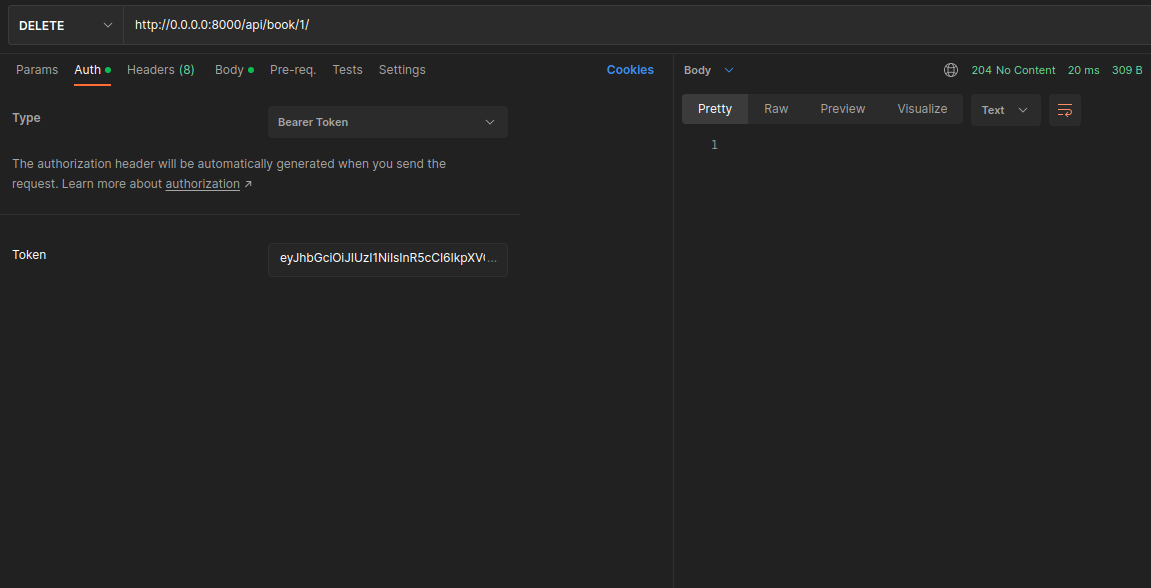
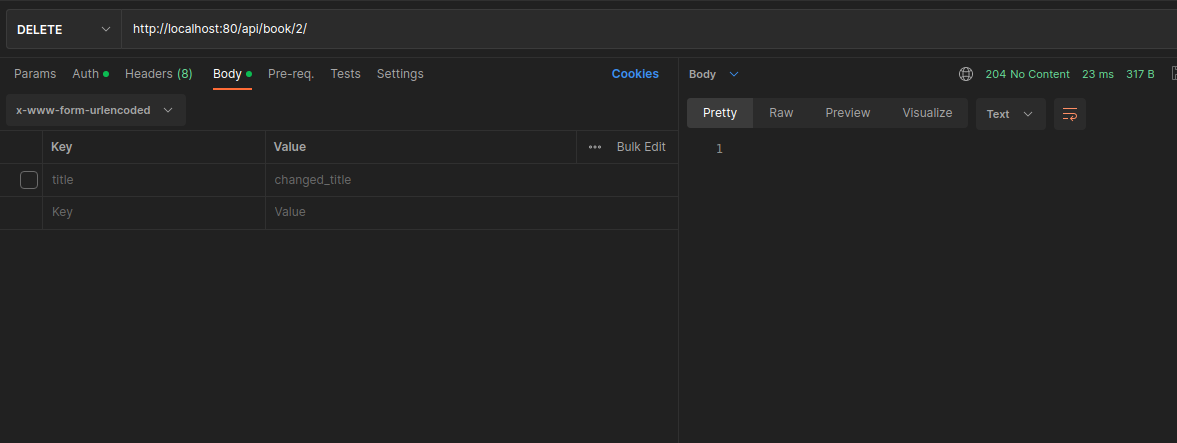
docs: add info about nginx in readme, alter graphical files

diff --git a/README.md b/README.md
@@ -3,6 +3,14 @@
 Django/ DRF API to manage books in a bookstore.<br>
 Made with gitflow pattern and conventional commits convention.
 
+Build with:
+
+* docker/ docker-compose
+* Python 3
+* Django 4
+* DRF
+* Gunicorn/ Nginx
+
 ## Explanation
 
 All GET request are public (no authentication nor authorization needed).<br>
@@ -50,7 +58,7 @@ Some book records added also - to perform basic operations at app start.
 Admin endpoint/panel also implemented for convenience (if needed). 
 <br><br>
 SWAGGER DOCS AVAILABLE AT:<br>
-http://localhost:8000/api/docs/
+http://localhost:80/api/docs/
 
 Default credentials:
 
@@ -78,35 +86,35 @@ e) user can search/list books on /book/ endpoint<br>
 
 Django Admin panel (default admin credentials can be used here)
 
-http://localhost:8000/admin
+http://localhost:80/admin
 
 
 1. CREATE new non admin user.
 
-POST to http://localhost:8000/api/user/register/
+POST to http://localhost:80/api/user/register/
 
 ```
 POST /api/user/register/ HTTP/1.1
-Host: localhost:8000
+Host: localhost:80
 Content-Type: application/x-www-form-urlencoded
 
-email=test@example.com&password=00test00&name=test_name
+email=test@example.com&password=password&name=test_name
 ```
 <p align=center>
 <img src="docs/register.png" alt="register" width="80%"/>
 </p>
 
 
-2. LOGIN to service as non admin user (JWT received in response body)
+2. LOGIN to service as admin/ non admin user (JWT received in response body)
 
-POST to http://localhost:8000/api/user/login/
+POST to http://localhost:80/api/user/login/
 
 ```
 POST /api/user/login/ HTTP/1.1
-Host: localhost:8000
+Host: localhost:80
 Content-Type: application/x-www-form-urlencoded
 
-email=test@example.com&password=00test00
+email=admin@example.com&password=password
 ```
 <p align=center>
 <img src="docs/login.png" alt="login" width="80%"/>
@@ -114,11 +122,11 @@ email=test@example.com&password=00test00
 
 3. REFRESH token (taken from login), new pair of acces/ refresh token will be returned in response.
 
-POST to http://localhost:8000/api/user/login/refresh/
+POST to http://localhost:80/api/user/login/refresh/
 
 ```
 POST /api/user/login/refresh/ HTTP/1.1
-Host: localhost:8000
+Host: localhost:80
 Content-Type: application/x-www-form-urlencoded
 
 refresh=refresh_jwt_token
@@ -131,19 +139,19 @@ refresh=refresh_jwt_token
 
 1. GET list of all books
 
-public GET to http://localhost:8000/api/book/
+public GET to http://localhost:80/api/book/
 
 2. FILTER thru existing books
 
-public GET to http://localhost:8000/api/book/?title=title-to-search-for
+public GET to http://localhost:80/api/book/?title=title-to-search-for
 <br>or<br>
-public GET to http://localhost:8000/api/book/?author=author-to-search-for
+public GET to http://localhost:80/api/book/?author=author-to-search-for
 <br>or<br>
-public GET to http://localhost:8000/api/book/?title=title-to-search-for&author=author-to-search-for
+public GET to http://localhost:80/api/book/?title=title-to-search-for&author=author-to-search-for
 
 3. ADD a book (must be admin user or got unathiorized - when regular user)
 
-POST to http://localhost:8000/api/book/
+POST to http://localhost:80/api/book/
 
 <br>
 JWT must be provided in header.
@@ -153,7 +161,7 @@ Body have to be selected as form-data and images field must be selected as file.
 
 ```
 POST /api/book/ HTTP/1.1
-Host: localhost:8000
+Host: localhost:80
 Authorization: Bearer {jwt_token_here}
 Content-Type: multi-part/form-data
 
@@ -169,11 +177,11 @@ Content-Type: multi-part/form-data
 <br>
 JWT must be provided in header.
 <br>
-PATCH to http://localhost:8000/api/book/{book_id}/
+PATCH to http://localhost:80/api/book/{book_id}/
 
 ```
 PATCH /api/book/{book_id}/ HTTP/1.1
-Host: localhost:8000
+Host: localhost:80
 Content-Type: application/x-www-form-urlencoded
 Authorization: Bearer {jwt_token_here}
 
@@ -185,7 +193,7 @@ Authorization: Bearer {jwt_token_here}
 <img src="docs/update.png" alt="update" width="80%"/> 
 </p>
 <p align=center>
-<img src="docs/create_auth.png" alt="add_auth" width="30%"/>
+<img src="docs/auth_patch.png" alt="add_auth" width="30%"/>
 </p>
 
 5. DELETE a book (must be admin user or got unathorized - when regular user)
@@ -193,11 +201,11 @@ Authorization: Bearer {jwt_token_here}
 JWT must be provided in header.
 <br>
 
-DELETE to http://localhost:8000/api/book/{book_id}/
+DELETE to http://localhost:80/api/book/{book_id}/
 
 ```
 DELETE /api/book/{book_id}/ HTTP/1.1
-Host: localhost:8000
+Host: localhost:80
 Authorization: Bearer {jwt_token_here}
 
 ```
@@ -205,14 +213,14 @@ Authorization: Bearer {jwt_token_here}
 <img src="docs/delete.png" alt="delete" width="80%"/> 
 </p>
 <p align=center>
-<img src="docs/create_auth.png" alt="add_auth" width="30%"/>
+<img src="docs/auth_del.png" alt="add_auth" width="30%"/>
 </p>
 
 ## Security
 
 App log in/out proces is managed thru JWT in DRF.<br>
 JWT tokens last for 30 mins after that had to be refreshed on POST to <br>
-http://localhost:8000/api/user/login/refresh/ <br>
+http://localhost:80/api/user/login/refresh/ <br>
 With JWT refresh token received at login.<br>
 All secret data (environmental variables) are set in .env file from which the app and docker fetch them up when needed (see .nev-example).
 
